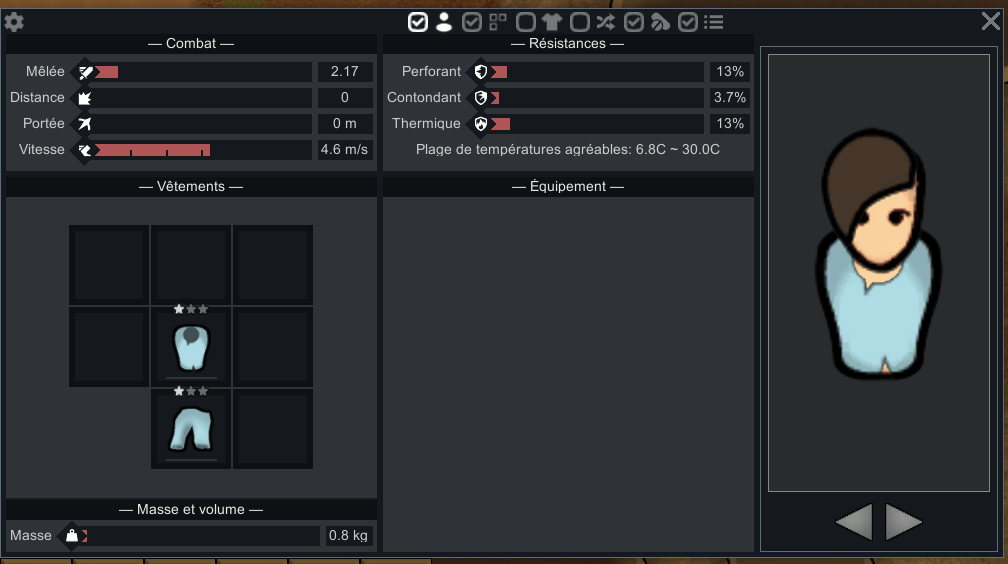
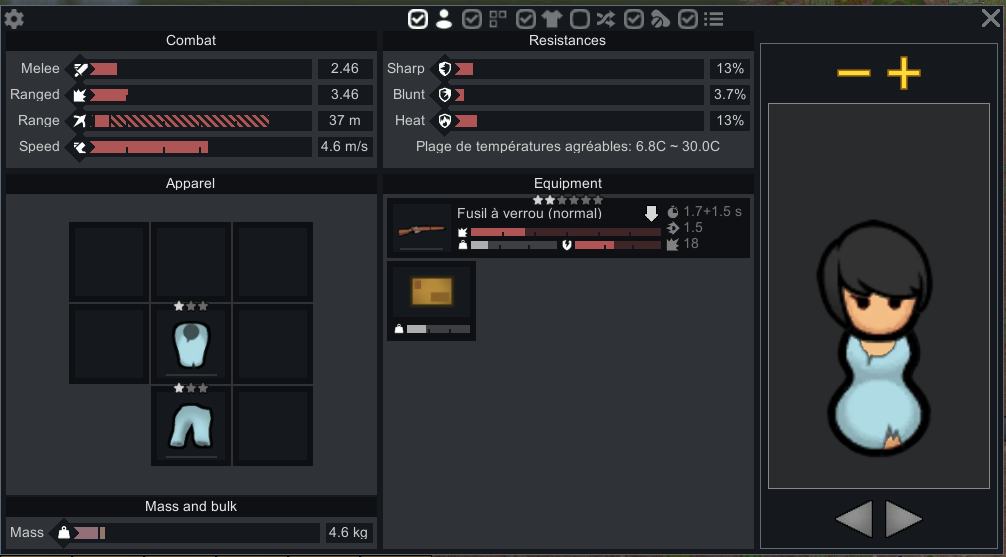
1.1.0 - Refresh in-game screenshot

diff --git a/docs/TESTING_CURRENT.md b/docs/TESTING_CURRENT.md
@@ -14,26 +14,27 @@ Status: validated locally after `r3`; milestone closed for publication.
 6. `About/About.xml` omits the unsupported top-level `steamWorkshopUrl` element.
 7. `About/PublishedFileId.txt` remains unchanged as `3777164660`.
 8. `About/Preview.png` and `docs/images/workshop-main.png` are identical, remain below 1 MB and show the new zoom controls.
+9. `docs/images/workshop-preview.png` is the final in-game screenshot and remains outside the runtime ZIP.
 
 ### Functional validation
 
-9. The preview opens directly beside Nice Inventory Tab and follows the selected pawn or corpse.
-10. Vanilla minus and plus buttons appear at the top of the preview panel.
-11. Minus zooms out and plus zooms in from the unchanged 100% default.
-12. Zoom remains bounded between 25% and 200%.
-13. A Thrumbo can be reduced until its visible body fits inside the preview.
-14. RimWorld's vanilla `+0.3` camera offset lowers the animal and keeps its head in frame at closer zoom levels.
-15. Left and right controls continue to rotate through all four orientations.
-16. The visibility toggle continues to expand and restore the tab width correctly.
-17. Closing Nice Inventory Tab removes the preview immediately.
-18. No overlap occurs with the Equipment block or close control.
+10. The preview opens directly beside Nice Inventory Tab and follows the selected pawn or corpse.
+11. Vanilla minus and plus buttons appear at the top of the preview panel.
+12. Minus zooms out and plus zooms in from the unchanged 100% default.
+13. Zoom remains bounded between 25% and 200%.
+14. A Thrumbo can be reduced until its visible body fits inside the preview.
+15. RimWorld's vanilla `+0.3` camera offset lowers the animal and keeps its head in frame at closer zoom levels.
+16. Left and right controls continue to rotate through all four orientations.
+17. The visibility toggle continues to expand and restore the tab width correctly.
+18. Closing Nice Inventory Tab removes the preview immediately.
+19. No overlap occurs with the Equipment block or close control.
 
 ### Startup and update validation
 
-19. RimWorld no longer reports the add-on's invalid root Workshop metadata at startup.
-20. The compatibility bootstrap initializes and attaches the integrated preview.
-21. The existing Workshop item ID and URL still agree.
-22. Package generation preserves the identifier so the update targets item `3777164660`.
+20. RimWorld no longer reports the add-on's invalid root Workshop metadata at startup.
+21. The compatibility bootstrap initializes and attaches the integrated preview.
+22. The existing Workshop item ID and URL still agree.
+23. Package generation preserves the identifier so the update targets item `3777164660`.
 
 ### Known limitations
 

diff --git a/docs/ROADMAP.md b/docs/ROADMAP.md
@@ -47,6 +47,7 @@ Validated in game after local revision `r3` and prepared for publication as `v1.
 - Validate zooming and framing with a Thrumbo while preserving rotation and visibility behavior.
 - Remove unsupported top-level Workshop metadata that produced a RimWorld 1.6 startup XML error.
 - Refresh the primary Workshop image while preserving its existing composition.
+- Replace the secondary image with the final in-game screenshot showing the zoom controls.
 - Preserve the existing Workshop item identifier for the update.
 
 ## Later evaluation

diff --git a/docs/PROJECT_STATE.md b/docs/PROJECT_STATE.md
@@ -31,6 +31,7 @@
 - In-game testing with a Thrumbo confirmed zooming, full-body framing and the lowered visual center.
 - Startup testing confirmed the invalid metadata error is removed and the compatibility bootstrap initializes.
 - The primary Workshop image retains its original composition and now shows the minus and plus zoom controls.
+- The secondary Workshop image is the final in-game screenshot supplied after zoom validation.
 - The clean update package preserves Workshop item ID `3777164660`.
 
 ## Workshop assets

diff --git a/docs/CHANGELOG.md b/docs/CHANGELOG.md
@@ -7,6 +7,7 @@
 - Apply RimWorld's vanilla portrait camera offset so pawns sit lower in the frame and tall heads remain visible longer while zooming.
 - Remove the unsupported top-level Workshop URL metadata that caused an XML startup error in RimWorld 1.6.
 - Refresh the primary Workshop image with the new vanilla zoom controls.
+- Replace the secondary Workshop screenshot with the final validated in-game zoom layout.
 
 ## 1.0.0
 
